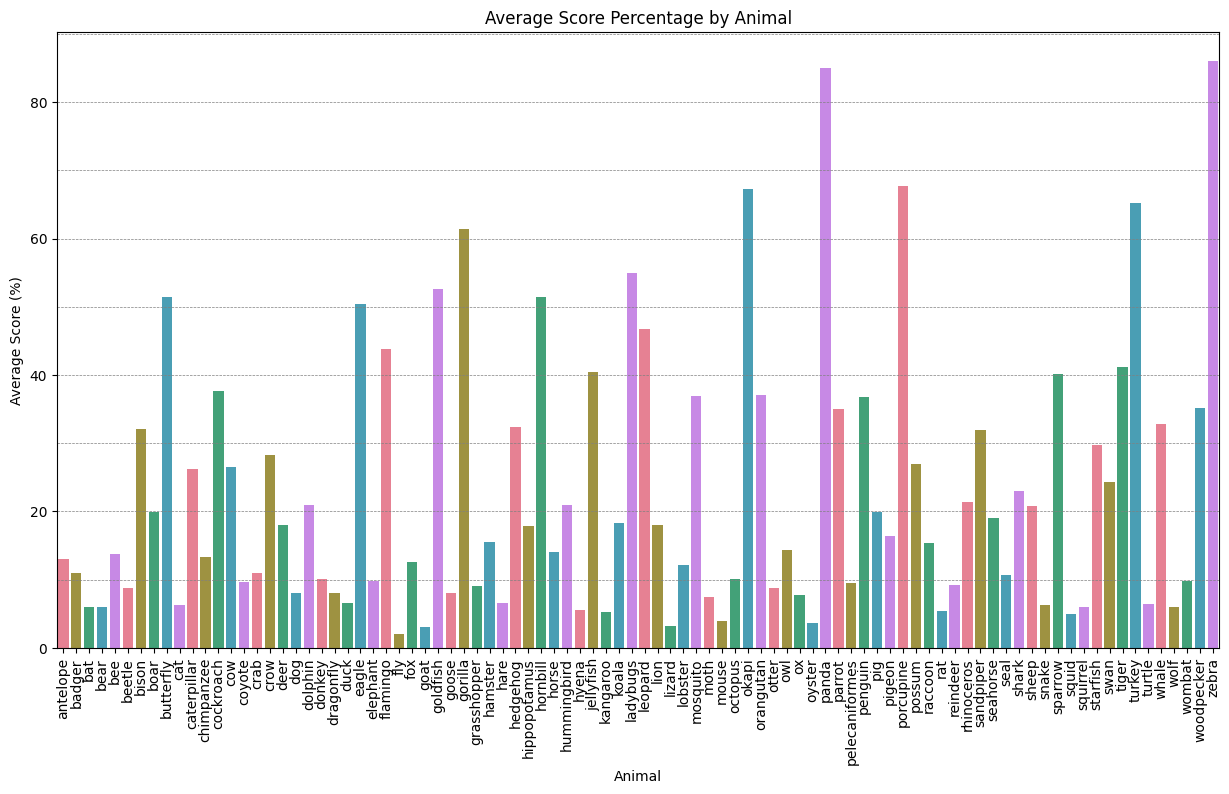
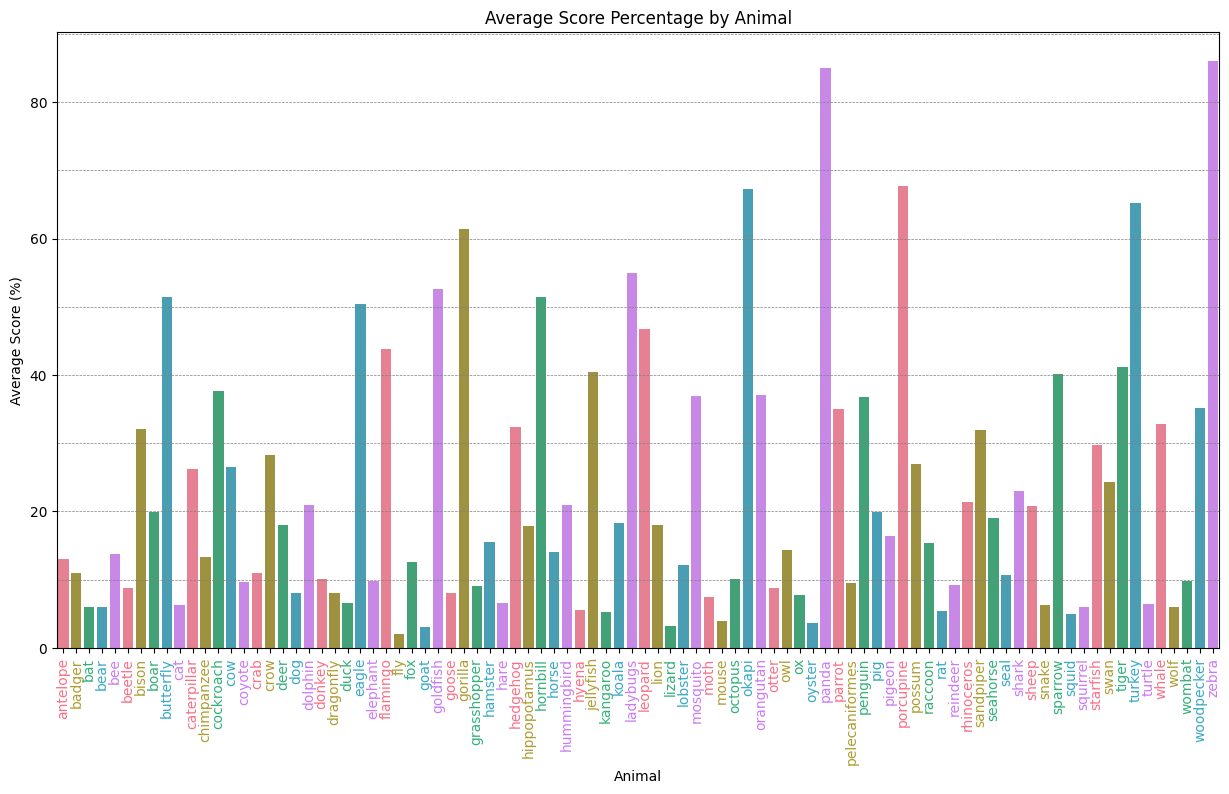
Simplification of evaluation data returns for prints and graphics + upgrade graphics visuals

Changed region(s): [[0.0309, 0.8161, 0.9894, 0.9673]]

diff --git a/graphics.py b/graphics.py
@@ -1,6 +1,8 @@
 import matplotlib.pyplot as plt
 import seaborn as sns
 
+import config
+
 
 def transform_format_data(data):
     global_data = []
@@ -9,15 +11,15 @@ def transform_format_data(data):
     for entity, details in data.items():
         global_record = {
             'animal': entity,
-            'average_scores_percentage': float(details['average_scores_percentage'].strip('%')) if details['average_scores_percentage'] is not None else 0.0,
-            'best_score_percentage': float(details['best_score_percentage'].strip('%')) if details['best_score_percentage'] is not None else 0.0,
-            'worst_score_percentage': float(details['worst_score_percentage'].strip('%')) if details['worst_score_percentage'] is not None else 0.0,
-            'average_rankings': float(details['average_rankings'].split('/')[0]) if details['average_rankings'] is not None else 0.0,
-            'best_ranking': int(details['best_ranking'].split('/')[0]) if details['best_ranking'] is not None else 0,
-            'worst_ranking': int(details['worst_ranking'].split('/')[0]) if details['worst_ranking'] is not None else 0,
-            'average_difference_with_best_scores': float(details['average_difference_with_best_scores'].strip('%+')) if details['average_difference_with_best_scores'] is not None else 0.0,
-            'min_difference_with_best_scores': float(details['min_difference_with_best_scores'].strip('%+')) if details['min_difference_with_best_scores'] is not None else 0.0,
-            'max_difference_with_best_scores': float(details['max_difference_with_best_scores'].strip('%+')) if details['max_difference_with_best_scores'] is not None else 0.0,
+            'avg_score': float(details['avg_score']) if details['avg_score'] is not None else 0.0,
+            'best_score': float(details['best_score']) if details['best_score'] is not None else 0.0,
+            'worst_score': float(details['worst_score']) if details['worst_score'] is not None else 0.0,
+            'avg_rank': float(details['avg_rank']) if details['avg_rank'] is not None else 0.0,
+            'best_rank': int(details['best_rank']) if details['best_rank'] is not None else 0,
+            'worst_rank': int(details['worst_rank']) if details['worst_rank'] is not None else 0,
+            'avg_diff_with_best_score': float(details['avg_diff_with_best_score']) if details['avg_diff_with_best_score'] is not None else 0.0,
+            'min_diff_with_best_score': float(details['min_diff_with_best_score']) if details['min_diff_with_best_score'] is not None else 0.0,
+            'max_diff_with_best_score': float(details['max_diff_with_best_score']) if details['max_diff_with_best_score'] is not None else 0.0,
         }
         global_data.append(global_record)
     
@@ -25,8 +27,8 @@ def transform_format_data(data):
             if key.endswith('.jpeg'):
                 individual_record = {
                     'animal': entity,
-                    'score_percentage': float(value['score_percentage'].strip('%')) if value['score_percentage'] is not None else 0.0,
-                    'ranking': int(value['ranking'].split('/')[0]) if value['ranking'] is not None else 0
+                    'score': float(value['score']) if value['score'] is not None else 0.0,
+                    'rank': int(value['rank']) if value['rank'] is not None else 0
                 }
                 individual_data.append(individual_record)
     
@@ -39,7 +41,7 @@ def make_bar_plot_avg_scores(global_df):
 
     # Bar plot for average scores
     plt.figure(figsize=(15, 8))
-    sns.barplot(x='animal', y='average_scores_percentage', data=global_df, palette=palette)
+    ax = sns.barplot(x='animal', y='avg_score', data=global_df, palette=palette)
     plt.title('Average Score Percentage by Animal')
     plt.xlabel('Animal')
     plt.ylabel('Average Score (%)')
@@ -52,18 +54,21 @@ def make_bar_plot_avg_scores(global_df):
     for y in range(int(ymin), int(ymax)+1, 10):
         plt.axhline(y=y, color='gray', linestyle='--', linewidth=0.5)
     
+    # Customize tick labels with the corresponding colors
+    for tick_label, color in zip(ax.get_xticklabels(), [palette[i % len(palette)] for i in range(len(global_df['animal'].unique()))]):
+        tick_label.set_color(color)
+    
     # Save the image
     plt.savefig('docs/models_performances/evaluations/average_score_barplot.png', bbox_inches='tight')
     plt.show()
-    
-    
+
 def make_bar_plot_avg_difference_best_scores(global_df):
     # Define a color palette with 5 colors
     palette = sns.color_palette("husl", 5)
     
     # Bar plot for average difference with best scores
     plt.figure(figsize=(15, 8))
-    sns.barplot(x='animal', y='average_difference_with_best_scores', data=global_df, palette=palette)
+    ax = sns.barplot(x='animal', y='avg_diff_with_best_score', data=global_df, palette=palette)
     plt.title('Average Difference with Best Scores by Animal')
     plt.xlabel('Animal')
     plt.ylabel('Average Difference with Best Scores (%)')
@@ -75,11 +80,14 @@ def make_bar_plot_avg_difference_best_scores(global_df):
     # Adding dashed lines every 10% within the current y-axis limits
     for y in range(int(ymin), int(ymax)+1, 10):
         plt.axhline(y=y, color='gray', linestyle='--', linewidth=0.5)
+
+    # Customize tick labels with the corresponding colors
+    for tick_label, color in zip(ax.get_xticklabels(), [palette[i % len(palette)] for i in range(len(global_df['animal'].unique()))]):
+        tick_label.set_color(color)
     
     # Save the image
-    plt.savefig('docs/models_performances/evaluations/average_difference_with_best_scores_barplot.png', bbox_inches='tight')
+    plt.savefig('docs/models_performances/evaluations/avg_difference_with_best_scores_barplot.png', bbox_inches='tight')
     plt.show()
-
 
 def make_box_plot_avg_score_percentage(individual_df):
     # Define a color palette with 5 colors
@@ -87,12 +95,16 @@ def make_box_plot_avg_score_percentage(individual_df):
     
     # Box plot for score percentages
     plt.figure(figsize=(15, 8))
-    sns.boxplot(x='animal', y='score_percentage', data=individual_df, palette=palette)
+    ax = sns.boxplot(x='animal', y='score', data=individual_df, palette=palette)
     plt.title('Score Percentage Distribution by Animal')
     plt.xlabel('Animal')
-    plt.ylabel('Score (%)')
+    plt.ylabel('Scores (%)')
     plt.xticks(rotation=90)
 
+    # Customize tick labels with the corresponding colors
+    for tick_label, color in zip(ax.get_xticklabels(), [palette[i % len(palette)] for i in range(len(individual_df['animal'].unique()))]):
+        tick_label.set_color(color)
+    
     # Save the image
     plt.savefig('docs/models_performances/evaluations/score_distribution_boxplot.png', bbox_inches='tight')
     plt.show()
@@ -104,15 +116,19 @@ def make_box_plot_avg_rankings(individual_df):
     
     # Box plot for rankings
     plt.figure(figsize=(15, 8))
-    sns.boxplot(x='animal', y='ranking', data=individual_df, palette=palette)
+    ax = sns.boxplot(x='animal', y='rank', data=individual_df, palette=palette)
     plt.title('Ranking Distribution by Animal')
     plt.xlabel('Animal')
-    plt.ylabel('Ranking')
+    plt.ylabel(f'Rankings (/{config.NUM_ANIMALS})')
     plt.xticks(rotation=90)
 
     # Invert the y-axis
-    plt.gca().invert_yaxis()
-    
+    # plt.gca().invert_yaxis()
+
+    # Customize tick labels with the corresponding colors
+    for tick_label, color in zip(ax.get_xticklabels(), [palette[i % len(palette)] for i in range(len(individual_df['animal'].unique()))]):
+        tick_label.set_color(color)
+
     # Save the image
-    plt.savefig('docs/models_performances/evaluations/ranking_distribution_boxplot.png', bbox_inches='tight')
+    plt.savefig('docs/models_performances/evaluations/rank_distribution_boxplot.png', bbox_inches='tight')
     plt.show()

diff --git a/evaluate_model.py b/evaluate_model.py
@@ -36,37 +36,40 @@ def calculate_statistics(scores, ranks, differences):
     Returns:
         dict: Dictionary containing calculated statistics.
     """
-    if scores:
-        avg_score = f"{round(sum(scores) / len(scores), 2)}%"
-        best_score = f"{min(scores)}%"
-        worst_score = f"{max(scores)}%"
+    if scores: 
+        # (3 vars in ...%)
+        avg_score = round(sum(scores) / len(scores), 2)
+        worst_score = min(scores)
+        best_score = max(scores)
     else:
         avg_score = best_score = worst_score = None
 
-    if ranks:
-        avg_rank = f"{round(sum(ranks) / len(ranks), 2)}/{config.NUM_ANIMALS}"
-        best_rank = f"{min(ranks)}/{config.NUM_ANIMALS}"
-        worst_rank = f"{max(ranks)}/{config.NUM_ANIMALS}"
+    if ranks: 
+        # (3 vars in .../config.NUM_ANIMALS)
+        avg_rank = round(sum(ranks) / len(ranks), 2)
+        best_rank = min(ranks)
+        worst_rank = max(ranks)
     else:
-        avg_rank = best_rank = worst_rank = f"0/{config.NUM_ANIMALS}"
+        avg_rank = best_rank = worst_rank = config.NUM_ANIMALS
 
-    if differences:
-        avg_difference = f"+{round(sum(differences) / len(differences), 2)}%"
-        min_difference = f"+{min(differences)}%"
-        max_difference = f"+{max(differences)}%"
+    if differences: 
+        # (3 vars in +...%)
+        avg_difference = round(sum(differences) / len(differences), 2)
+        min_difference = min(differences)
+        max_difference = max(differences)
     else:
-        avg_difference = min_difference = max_difference = "+0%"
+        avg_difference = min_difference = max_difference = None
 
     return {
-        "average_scores_percentage": avg_score,
-        "best_score_percentage": best_score,
-        "worst_score_percentage": worst_score,
-        "average_rankings": avg_rank,
-        "best_ranking": best_rank,
-        "worst_ranking": worst_rank,
-        "average_difference_with_best_scores": avg_difference,
-        "min_difference_with_best_scores": min_difference,
-        "max_difference_with_best_scores": max_difference,
+        "avg_score": avg_score,
+        "best_score": best_score,
+        "worst_score": worst_score,
+        "avg_rank": avg_rank,
+        "best_rank": best_rank,
+        "worst_rank": worst_rank,
+        "avg_diff_with_best_score": avg_difference,
+        "min_diff_with_best_score": min_difference,
+        "max_diff_with_best_score": max_difference,
     }
 
 
@@ -146,17 +149,17 @@ def predictions_all_entities(model):
             # Handle score and ranking information
             if score:
                 score_pct = round(score * 100, 2)
-                prediction_info["score_percentage"] = f"{score_pct}%"
+                prediction_info["score"] = score_pct
                 scores.append(score_pct)
             else:
-                prediction_info["score_percentage"] = None
+                prediction_info["score"] = 0
                 scores.append(0)
 
             if rank:
-                prediction_info["ranking"] = f"{rank}/{config.NUM_ANIMALS}"
+                prediction_info["rank"] = rank
                 ranks.append(rank)
             else:
-                prediction_info["ranking"] = None
+                prediction_info["rank"] = config.NUM_ANIMALS
                 ranks.append(config.NUM_ANIMALS)
 
             # Handle best entity and score difference information
@@ -164,11 +167,10 @@ def predictions_all_entities(model):
                 best_entity, best_score = prediction[0]
                 diff_best_score_pct = round((best_score - score) * 100, 2)
                 prediction_info["best_entity"] = best_entity
-                prediction_info["best_score_percentage"] = f"{round(best_score * 100, 2)}% (+{diff_best_score_pct}%)"
+                prediction_info["best_score"] = round(best_score * 100, 2)
+                prediction_info["diff_with_best_score"] = diff_best_score_pct
                 score_diffs.append(diff_best_score_pct)
             else:
-                prediction_info["best_entity"] = None
-                prediction_info["best_score_percentage"] = None
                 score_diffs.append(0)
 
             # Add the prediction information to the entity predictions dictionary
